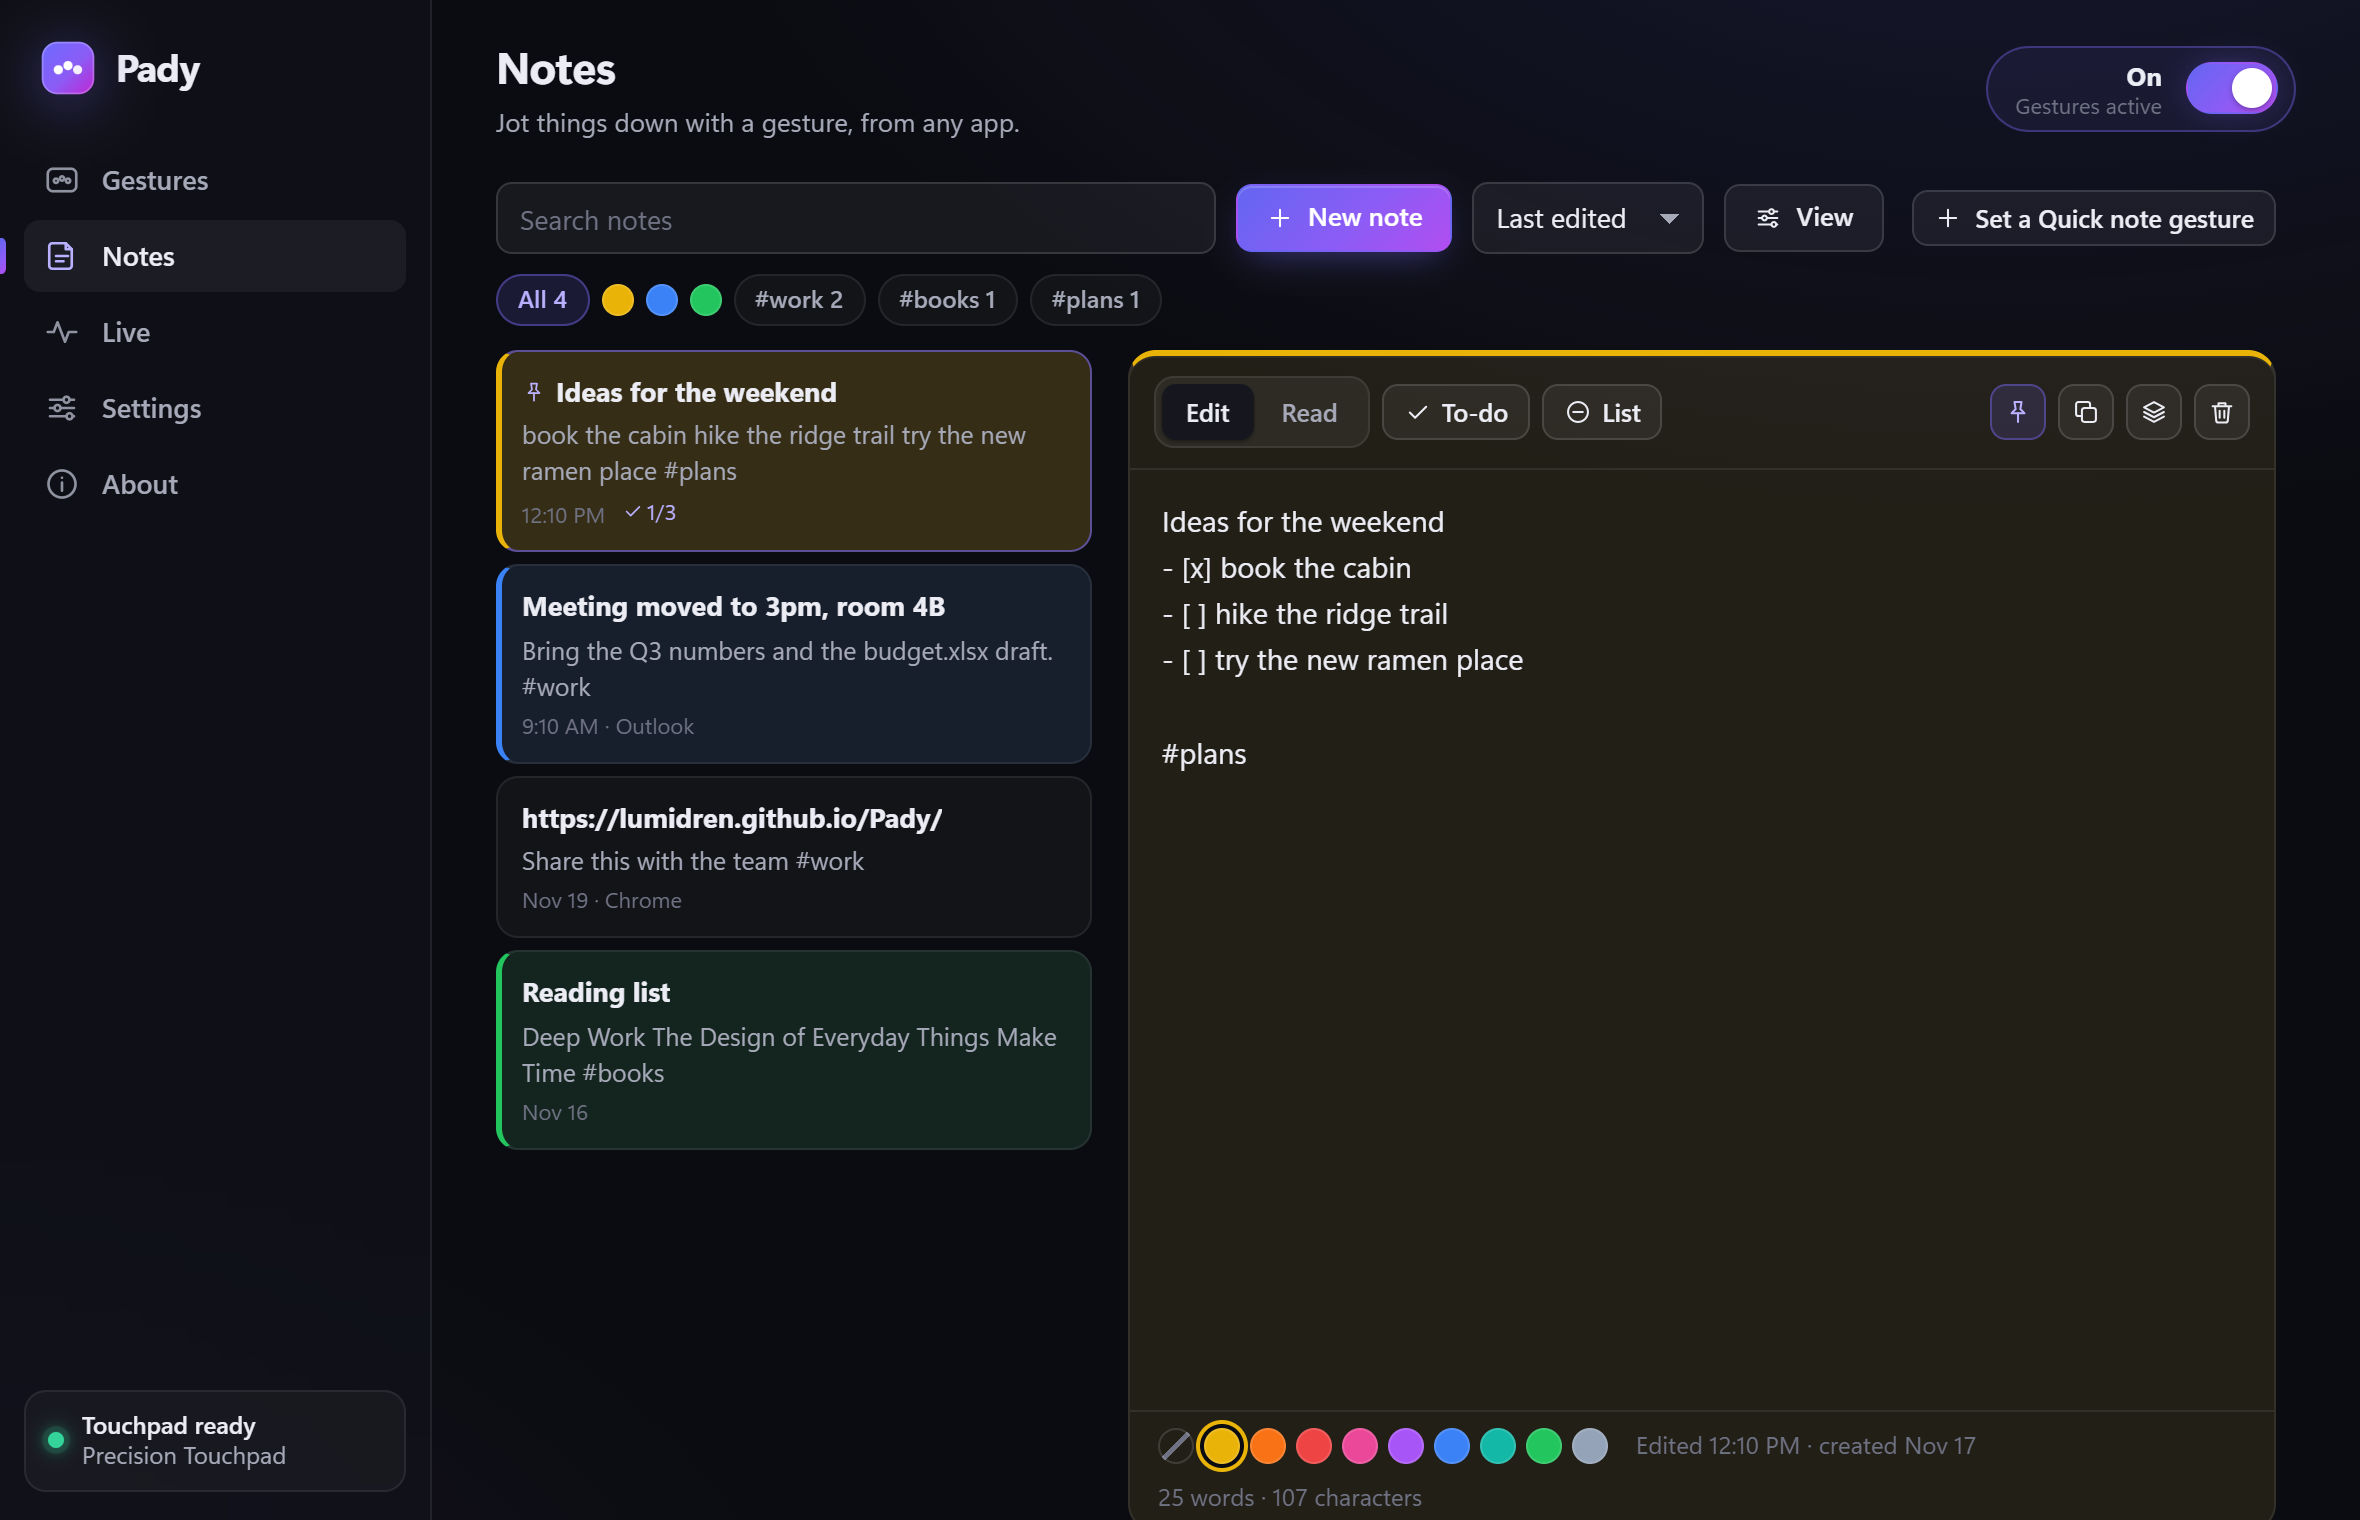
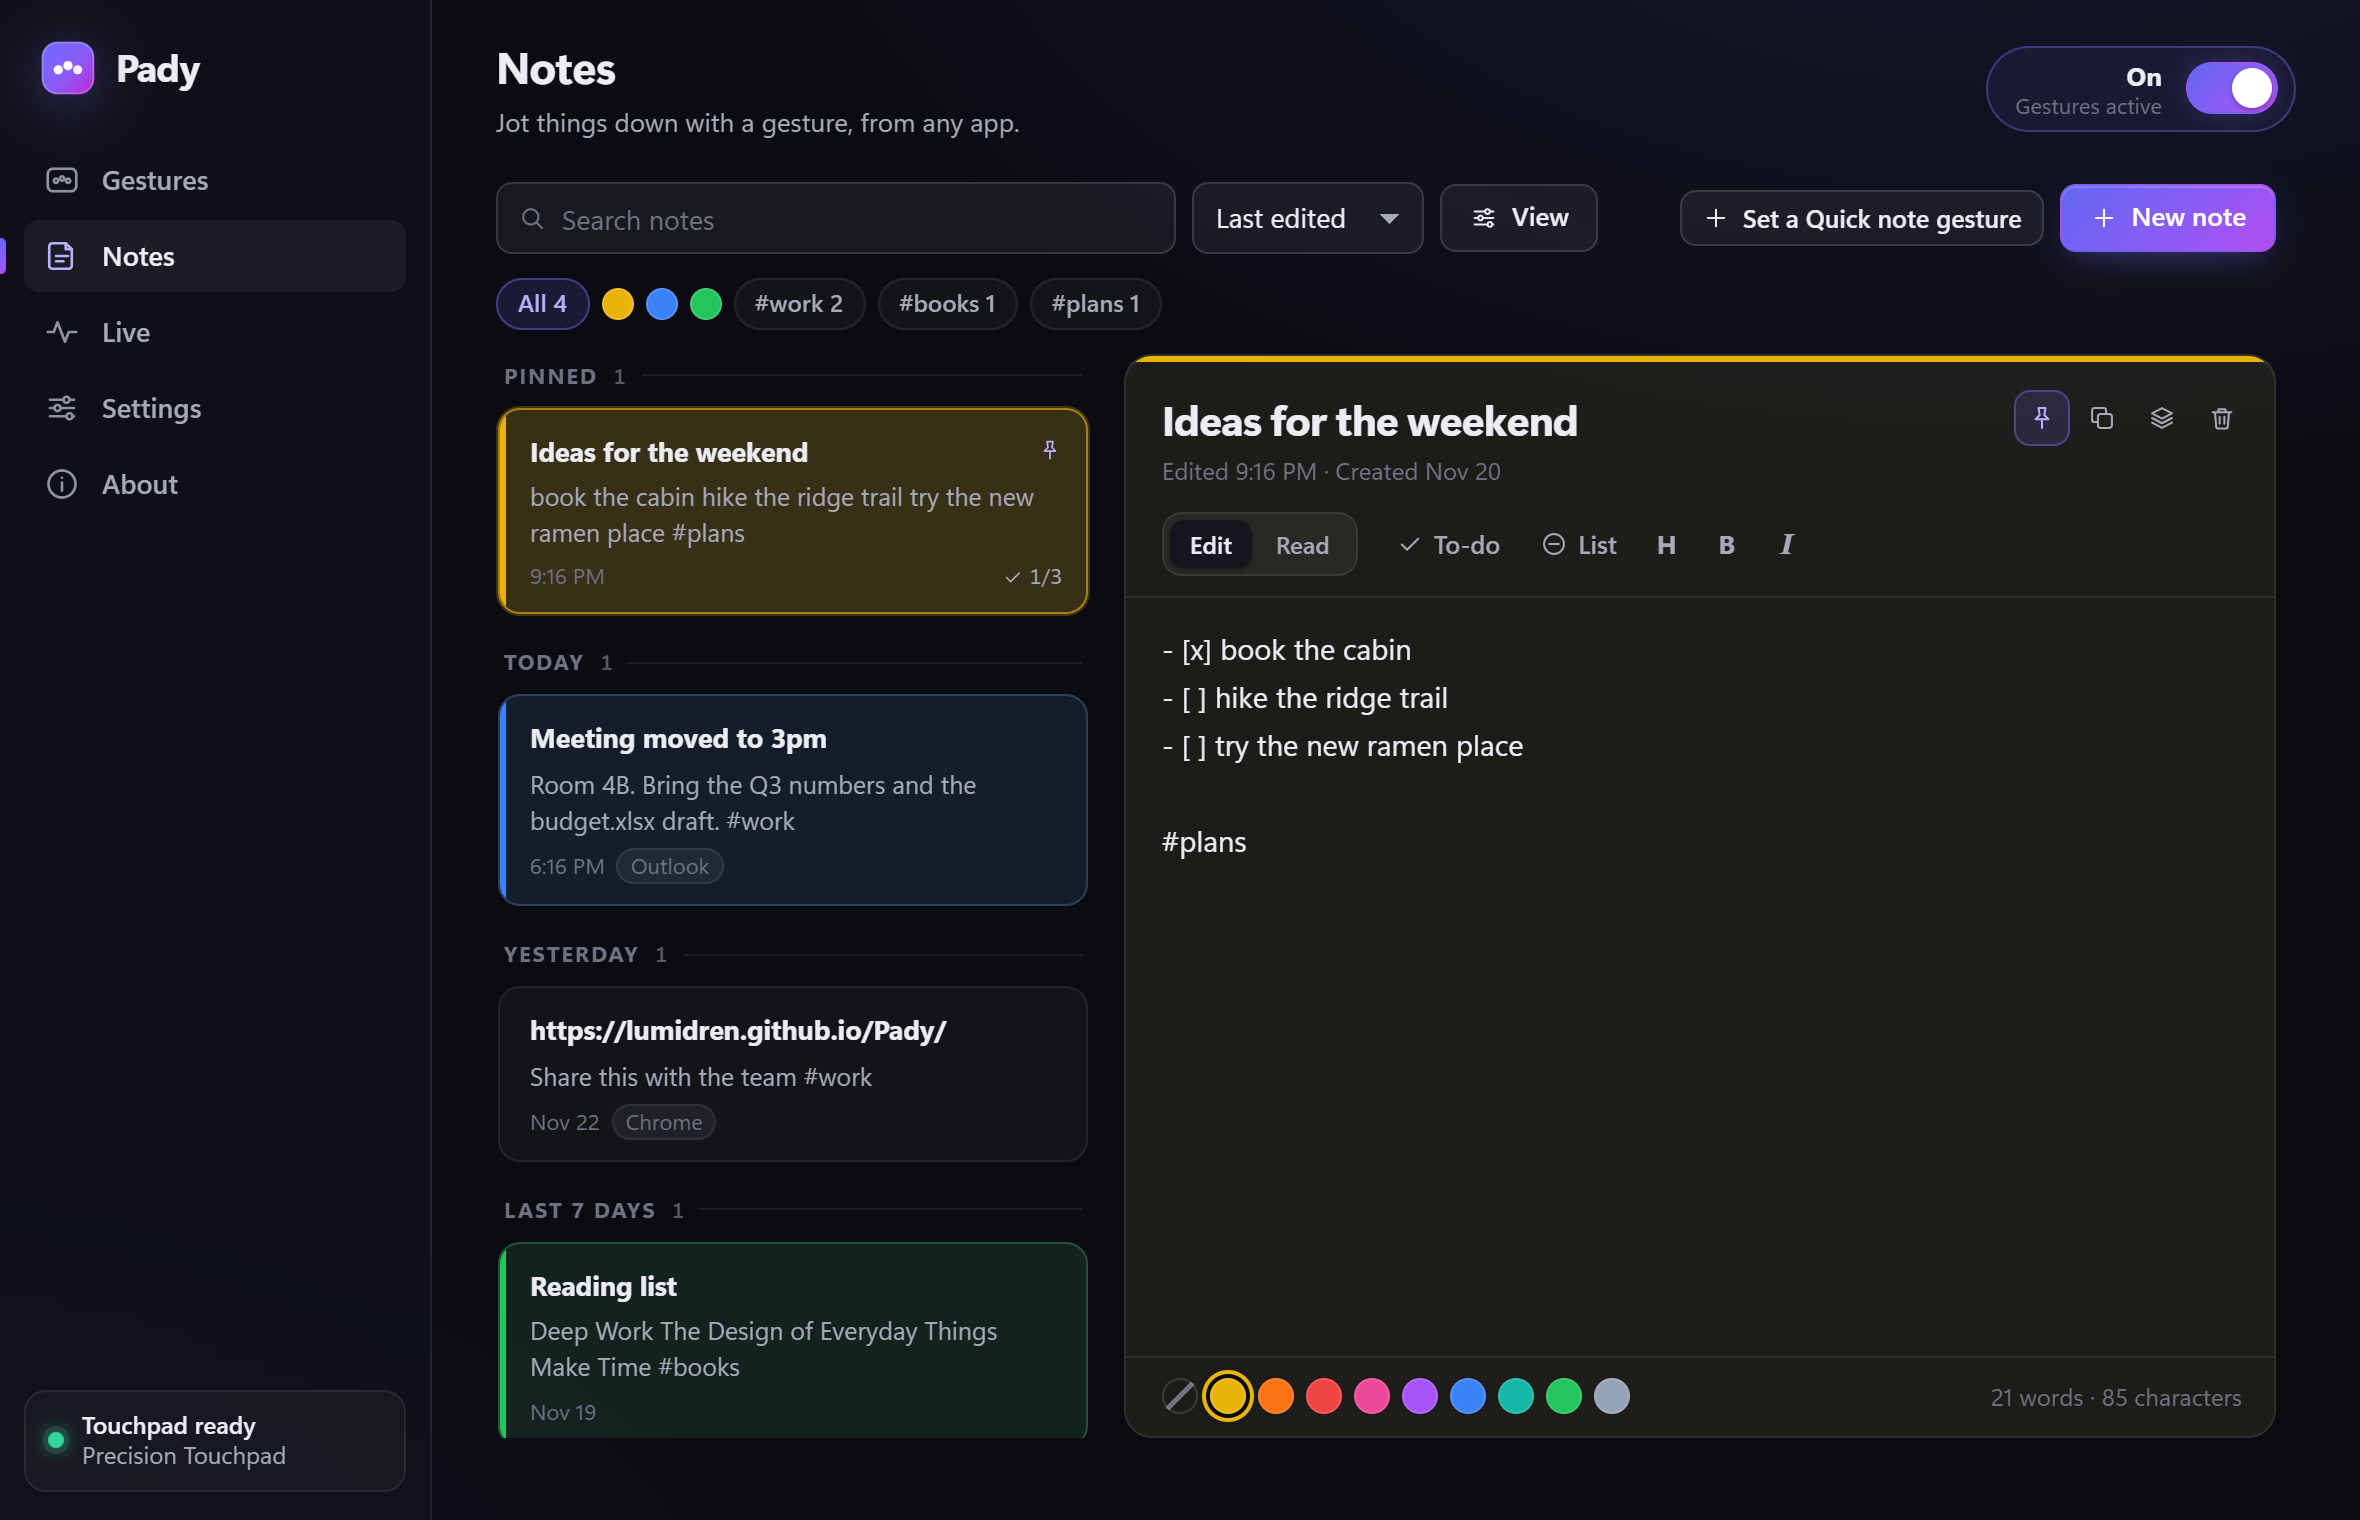
Release 1.0.3

diff --git a/README.md b/README.md
@@ -75,7 +75,7 @@
 | ✅ | **Faster taps and a quieter language notice**: actions run before bookkeeping, and the tap wait learns your pace | **v1.0.0** |
 | ✅ | **Security and reliability fixes** from a full assessment: safer program lookup, safe config saves, a careful log, volume that stops when your fingers do | **v1.0.0** |
 | ✅ | **Choose an app**: pick the app a gesture opens from a searchable menu of everything installed, with icons, Store apps included | **v1.0.0** |
-| ✅ | **Quick note and Notes**: a gesture opens a note by the cursor in any app, and a Notes page keeps them, with search, tags, colours, to-dos, undo and export | **v1.0.0** |
+| ✅ | **Quick note and Notes**: a gesture opens a note by the cursor in any app, and a Notes page keeps them, with titles, search, tags, colours, to-dos, undo and export | **v1.0.0** |
 | ✅ | **Clipboard history** as an action: a gesture opens the system's own history (Win+V) | **v1.0.0** |
 | 🧪 | **Glyphs**: draw your own two-finger shapes (a circle, a V, a check mark) and bind them like any gesture | Coming soon. Built, but shown only in beta builds for now |
 | 🧪 | **Translator**: select text, do a gesture, and a pop-up shows the translation (free MyMemory or DeepL, 38 languages) | Coming soon. Being built on the `translator` branch |
@@ -108,7 +108,7 @@ The full history is in [CHANGELOG.md](CHANGELOG.md).
 
 ## Install
 
-Download from the [latest release](https://github.com/lumidren/Pady/releases/latest). Sizes are for v1.0.2.
+Download from the [latest release](https://github.com/lumidren/Pady/releases/latest). Sizes are for v1.0.3.
 
 | System | File | Size | What happens |
 |---|---|---|---|
@@ -673,7 +673,7 @@ Writes are atomic (a temporary file, then a rename), so a crash never leaves hal
 | A brightness step on Windows | about 4.5 ms, the first one 8 ms (it connects to WMI at startup) | `time_actions` |
 | Swipe glow and touches | about 0.2 ms of work per frame, paced by the display | The glow is drawn once; each frame only moves it and changes its opacity |
 | Timers for holds, double taps, drag release | 1 ms precision while one is pending (Windows' default tick is ~15.6 ms) | Requested only while needed, then given back |
-| Download | 5.7 MB Windows setup, 5.5 MB .deb | v1.0.2 release files |
+| Download | 5.7 MB Windows setup, 5.5 MB .deb | v1.0.3 release files |
 
 Load, spike and soak results (the frame rate ramped to 500 touchpads' worth, a burst of half a million frames, 30 minutes of steady load) are in [docs/benchmarks.md](docs/benchmarks.md).
 
@@ -775,7 +775,7 @@ Bug reports, gesture ideas and pull requests are all welcome. Open an [issue](ht
 Windows releases will be signed so you can check they come from this project. Free code signing provided by [SignPath.io](https://about.signpath.io), certificate by [SignPath Foundation](https://signpath.org).
 
 > [!NOTE]
-> Signing through SignPath is being set up, and the application is still pending. Until it's approved, Windows installers, v1.0.2 included, are **not** code-signed. Each release lists SHA-256 checksums for every file, and update files are always signed with Pady's updater key, which the app checks before installing anything.
+> Signing through SignPath is being set up, and the application is still pending. Until it's approved, Windows installers, v1.0.3 included, are **not** code-signed. Each release lists SHA-256 checksums for every file, and update files are always signed with Pady's updater key, which the app checks before installing anything.
 
 - **Committers and reviewers:** [lumidren](https://github.com/lumidren)
 - **Approvers:** [lumidren](https://github.com/lumidren)

diff --git a/CHANGELOG.md b/CHANGELOG.md
@@ -1,6 +1,6 @@
 # Changelog
 
-## Unreleased
+## 1.0.3 (2026-11-23)
 
 ### Added
 
@@ -10,7 +10,11 @@
 
 - **A tidier Notes page.** The list is grouped under headings (Pinned, Today, Yesterday, Last 7 days and so on), the open note shows its title, its dates and its buttons in one header, and Heading, Bold and Italic sit next to To-do and List. The list and the note now fill the window's height, so the colours and the word count stay in view, and with no notes the page shows one clear way to start.
 
-## 1.0.2 (2026-11-23)
+### Security
+
+- **Updated the `cookie` library to 0.18.3.** Version 0.18.2 could repeat a nonce for private cookies in a process that forks (RUSTSEC-2026-0594, published 23 November 2026). Pady uses no private cookies and never forks, so it was not affected; the update keeps the dependency check clean.
+
+## 1.0.2 (2026-11-23, not published; its changes ship with 1.0.3)
 
 ### Added
 
@@ -20,7 +24,7 @@
 
 - **Updated the `url` library to 2.5.9.** Version 2.5.8 could crash on a deeply nested `blob:` address (RUSTSEC-2026-0592, published 20 November 2026). Pady only handles its own pages and the update address with it, so no way to trigger it in Pady is known; the update keeps the dependency check clean.
 
-## 1.0.1 (2026-11-21, not published; its changes ship with 1.0.2)
+## 1.0.1 (2026-11-21, not published; its changes ship with 1.0.3)
 
 ### Fixed
 
